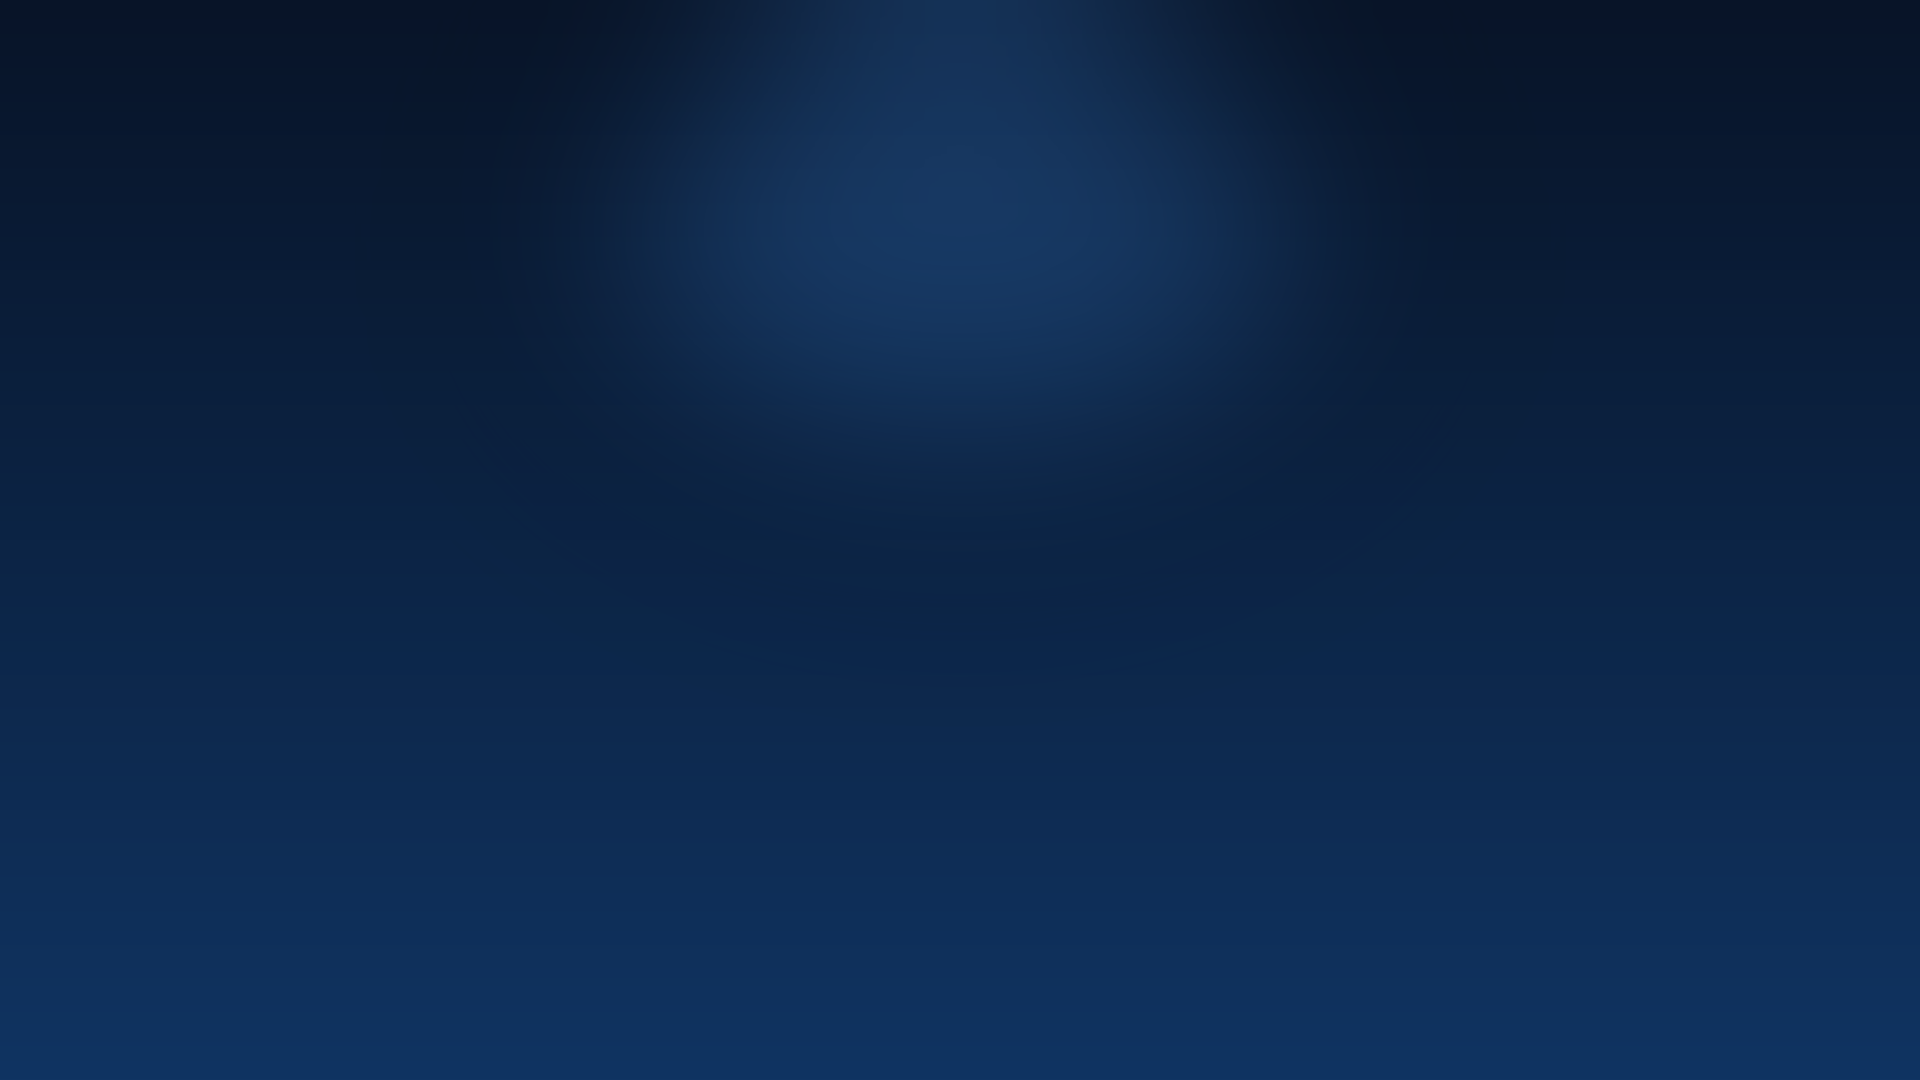
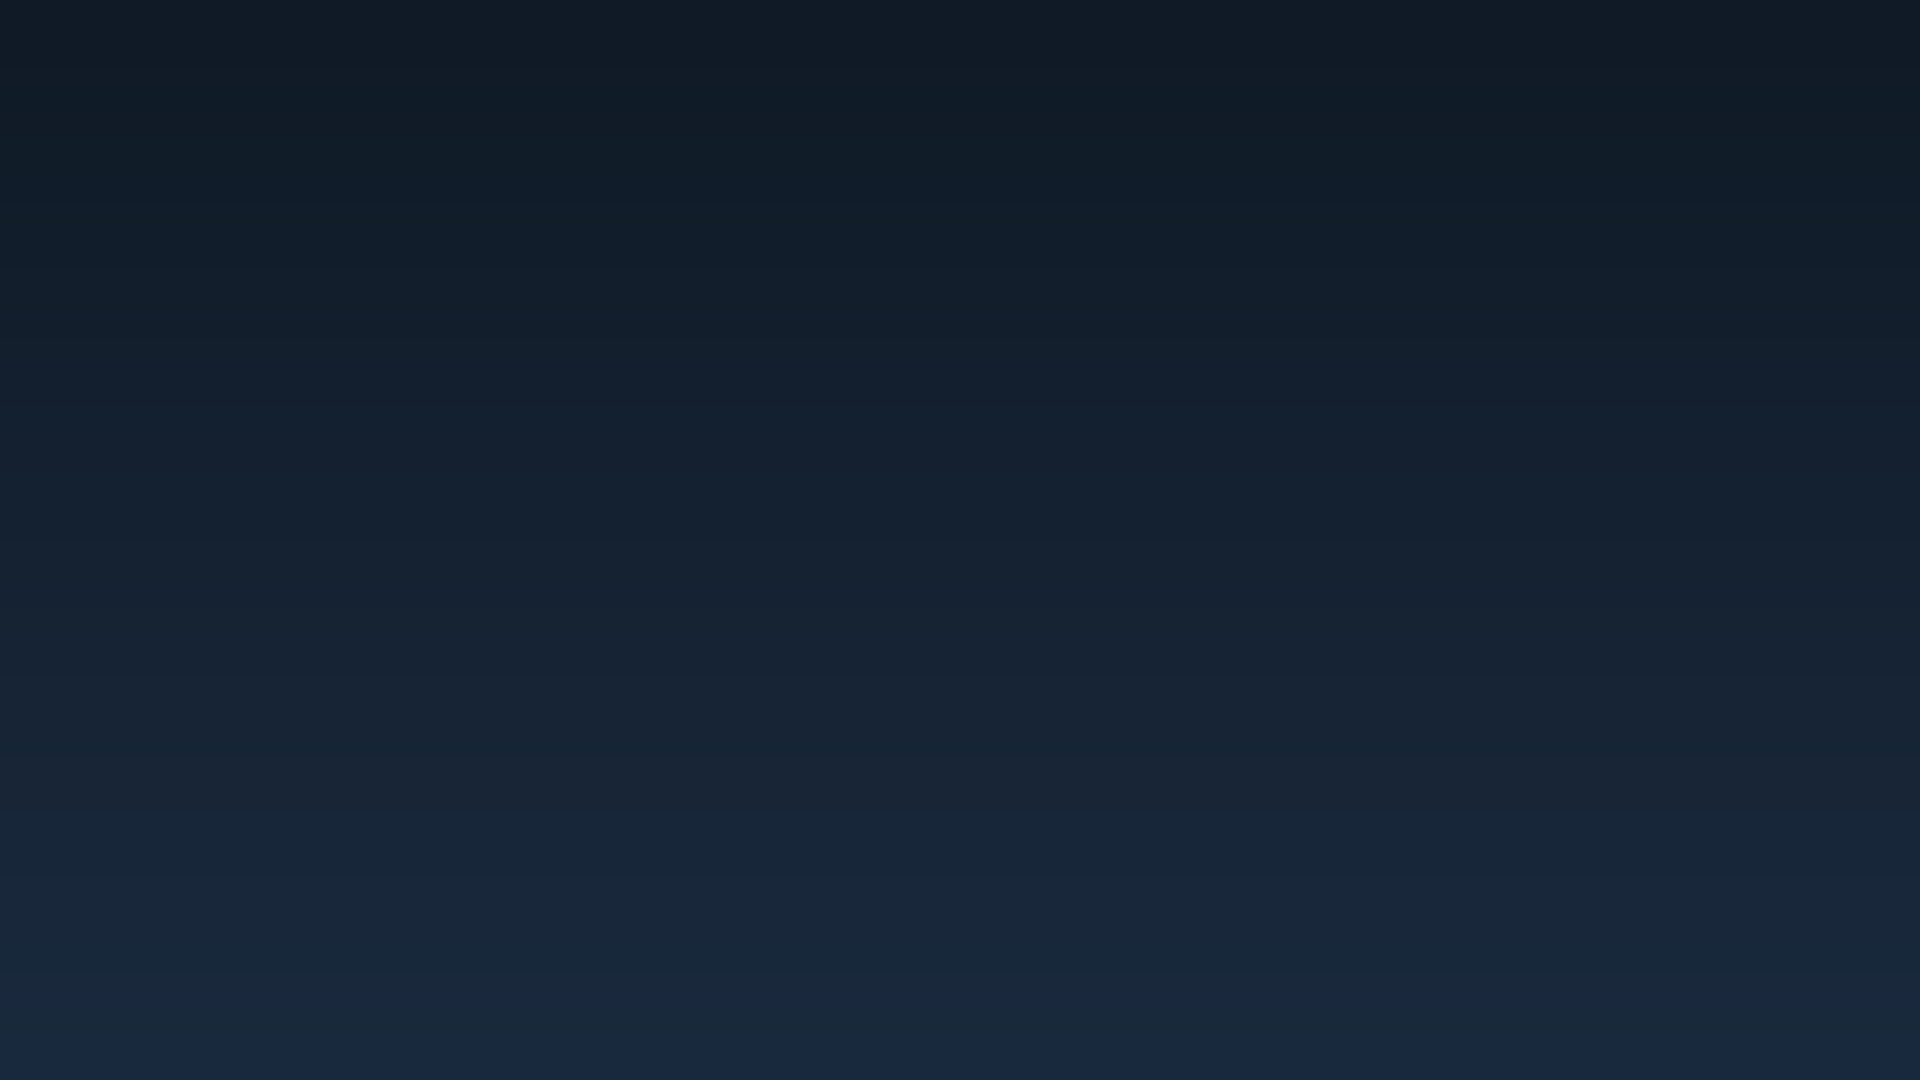
GRUB tema: logosuz minimal notr mavi tema, yalniz yuzde olculu yerlesim; test makinesi icin sessiz acilis parametreleri, GFXPAYLOAD kaldirildi; 23 test

diff --git a/tests/test_grub_tema.py b/tests/test_grub_tema.py
@@ -26,7 +26,7 @@ BETIK = os.path.join(KLASOR, "grub-tema.sh")
 SURE = os.path.join(KLASOR, "grub.d", "99_carotos_sure")
 SH = shutil.which("sh")
 
-PNG_ADLARI = ("background.png", "logo.png", "select_c.png", "select_w.png", "select_e.png")
+PNG_ADLARI = ("background.png", "select_c.png", "select_w.png", "select_e.png")
 
 
 class TemaDosyalariTesti(unittest.TestCase):
@@ -43,7 +43,7 @@ class TemaDosyalariTesti(unittest.TestCase):
 
     def test_temanin_basvurdugu_dosyalar_mevcut(self):
         adlar = set(re.findall(r'(?:file|desktop-image)\s*[=:]\s*"([^"]+)"', self.tema))
-        self.assertTrue({"background.png", "logo.png"} <= adlar)
+        self.assertEqual(adlar, {"background.png"})              # logo yok: minimal tema
         for ad in adlar:
             self.assertTrue(os.path.isfile(os.path.join(TEMA, ad)), ad)
         stil = re.search(r'selected_item_pixmap_style\s*=\s*"([^"]+)"', self.tema).group(1)
@@ -66,6 +66,28 @@ class TemaDosyalariTesti(unittest.TestCase):
             self.assertIn(dosya, betik)
         kullanilan = set(re.findall(r'"(DejaVu Sans [A-Za-z]+ \d+)"', self.tema))
         self.assertEqual(kullanilan, {"DejaVu Sans Regular 14", "DejaVu Sans Regular 18", "DejaVu Sans Bold 18"})
+
+    def test_konum_ve_boyutlar_yuzdedir_ekran_boyutuna_bagli_degil(self):
+        """Piksel ofsetleri (50%-90, 7%+196 gibi) kucuk ekranlarda ogeleri ust uste bindiriyordu."""
+        for ad in ("left", "top", "width", "height"):
+            for deger in re.findall(r"^\s*%s\s*=\s*(\S+)\s*$" % ad, self.tema, re.M):
+                if ad in ("height",) and deger.isdigit():              # progress_bar ince cizgi kalinligi (piksel) serbest
+                    continue
+                self.assertTrue(re.fullmatch(r"\d+%", deger) or deger == "0", "%s = %s" % (ad, deger))
+        self.assertNotIn("+ image", self.tema)
+
+    def test_ogeler_dikeyde_ust_uste_binmez(self):
+        """top/height yuzdeleri sirayla cakismamali: baslik, menu, zamanlayici, ipucu."""
+        bloklar = re.split(r"^\+ ", self.tema, flags=re.M)[1:]
+        aralik = []
+        for b in bloklar:
+            top = re.search(r"top\s*=\s*(\d+)%", b)
+            yuk = re.search(r"height\s*=\s*(\d+)%", b)
+            if top and yuk:
+                aralik.append((int(top.group(1)), int(top.group(1)) + int(yuk.group(1)), b.split()[0]))
+        aralik.sort()
+        for (a0, a1, an), (b0, b1, bn) in zip(aralik, aralik[1:]):
+            self.assertLessEqual(a1, b0, "%s ile %s ust uste biniyor" % (an, bn))
 
     def test_renkler_mavi_beyaz_paletten(self):
         for h in re.findall(r'"(#[0-9a-fA-F]{6})"', self.tema):
@@ -152,6 +174,10 @@ class KurulumBetigiTesti(unittest.TestCase):
             cfg = f.read()
         self.assertIn('GRUB_THEME="/boot/grub/themes/carotos/theme.txt"', cfg)
         self.assertIn("GRUB_DISABLE_OS_PROBER=false", cfg)
+        self.assertNotIn("GRUB_GFXPAYLOAD_LINUX", cfg)
+        sat = [x for x in cfg.splitlines() if x.startswith("GRUB_CMDLINE_LINUX_DEFAULT")][0]
+        self.assertLess(sat.index("quiet"), sat.index("loglevel=3"))       # loglevel quiet'ten sonra gelmeli
+        self.assertIn("systemd.show_status=auto", sat)
         sure = self.yol("etc", "grub.d", "99_carotos_sure")
         self.assertTrue(os.stat(sure).st_mode & stat.S_IXUSR)
         with open(self.grubcfg) as f:
@@ -159,6 +185,13 @@ class KurulumBetigiTesti(unittest.TestCase):
         with open(self.grubcfg + ".carotos-yedek") as f:
             self.assertEqual(f.read(), "# eski grub.cfg\n")
         self.assertFalse(os.path.exists(self.yol("etc", "default", "grub")))       # /etc/default/grub'a dokunulmaz
+
+    def test_eski_logo_temizlenir(self):
+        hedef = self.yol("boot", "grub", "themes", "carotos")
+        os.makedirs(hedef)
+        open(os.path.join(hedef, "logo.png"), "w").close()
+        self.assertEqual(self._calistir("kur").returncode, 0)
+        self.assertFalse(os.path.exists(os.path.join(hedef, "logo.png")))
 
     def test_ikinci_kurulum_ilk_yedegi_ezmez(self):
         self._calistir("kur")

diff --git a/tools/grub-test/uret.py b/tools/grub-test/uret.py
@@ -2,21 +2,19 @@
 # -*- coding: utf-8 -*-
 """CarotOS GRUB temasi gorsellerini uretir (Pillow gerekir; yalnizca gelistirici makinesinde, VM'de gerekmez).
 
-Cikti: tools/grub-test/tema/{background,logo,select_c,select_w,select_e}.png
+Cikti: tools/grub-test/tema/{background,select_c,select_w,select_e}.png
+Minimal tema: logo yok, notr mavi tonlar (kullanici karari, 7 Kasim). Zemin neredeyse duz, cok hafif gradyan.
 Kullanim:  python tools/grub-test/uret.py
-Renkler mavi-beyaz palet (kullanici karari, 3 Kasim): lacivert zemin, acik mavi vurgu, beyaz yazi.
 """
 import os
 
-from PIL import Image, ImageDraw, ImageFilter
+from PIL import Image, ImageDraw
 
 BURASI = os.path.dirname(os.path.abspath(__file__))
-KOK = os.path.dirname(os.path.dirname(BURASI))
 TEMA = os.path.join(BURASI, "tema")
-LOGO = os.path.join(KOK, "config", "includes.chroot", "usr", "share", "carotos", "welcome", "logo.png")
 
-UST, ALT = (8, 20, 40), (16, 52, 98)         # zemin gradyani (lacivert)
-VURGU = (47, 127, 214, 255)                   # secili satir (acik mavi)
+UST, ALT = (16, 26, 38), (26, 42, 62)          # zemin: koyu notr mavi-gri gradyani
+VURGU = (58, 95, 143, 255)                      # secili satir: sakin mavi
 
 
 def arka_plan(w=1920, h=1080):
@@ -25,21 +23,10 @@ def arka_plan(w=1920, h=1080):
     for y in range(h):
         t = y / (h - 1)
         px.line([(0, y), (w, y)], fill=tuple(int(UST[i] + (ALT[i] - UST[i]) * t) for i in range(3)))
-    isik = Image.new("RGBA", (w, h), (0, 0, 0, 0))
-    d = ImageDraw.Draw(isik)
-    d.ellipse([w * 0.5 - 420, h * 0.22 - 260, w * 0.5 + 420, h * 0.22 + 260], fill=(60, 140, 230, 70))
-    isik = isik.filter(ImageFilter.GaussianBlur(120))
-    im = Image.alpha_composite(im.convert("RGBA"), isik).convert("RGB")
     im.save(os.path.join(TEMA, "background.png"), optimize=True)
 
 
-def logo(boy=180):
-    im = Image.open(LOGO).convert("RGBA")
-    im = im.resize((boy, boy), Image.LANCZOS)
-    im.save(os.path.join(TEMA, "logo.png"), optimize=True)
-
-
-def secim(h=40, r=10, kenar=12):
+def secim(h=36, r=8, kenar=10):
     """9 dilimli secili-satir cercevesi: select_c (orta), select_w (sol uc), select_e (sag uc)."""
     tam = Image.new("RGBA", (kenar * 2 + 8, h), (0, 0, 0, 0))
     ImageDraw.Draw(tam).rounded_rectangle([0, 0, tam.width - 1, h - 1], radius=r, fill=VURGU)
@@ -51,8 +38,6 @@ def secim(h=40, r=10, kenar=12):
 if __name__ == "__main__":
     os.makedirs(TEMA, exist_ok=True)
     arka_plan()
-    logo()
     secim()
-    for ad in sorted(os.listdir(TEMA)):
-        if ad.endswith(".png"):
-            print(ad, os.path.getsize(os.path.join(TEMA, ad)), "bayt")
+    for ad in ("background.png", "select_c.png", "select_w.png", "select_e.png"):
+        print(ad, os.path.getsize(os.path.join(TEMA, ad)), "bayt")
